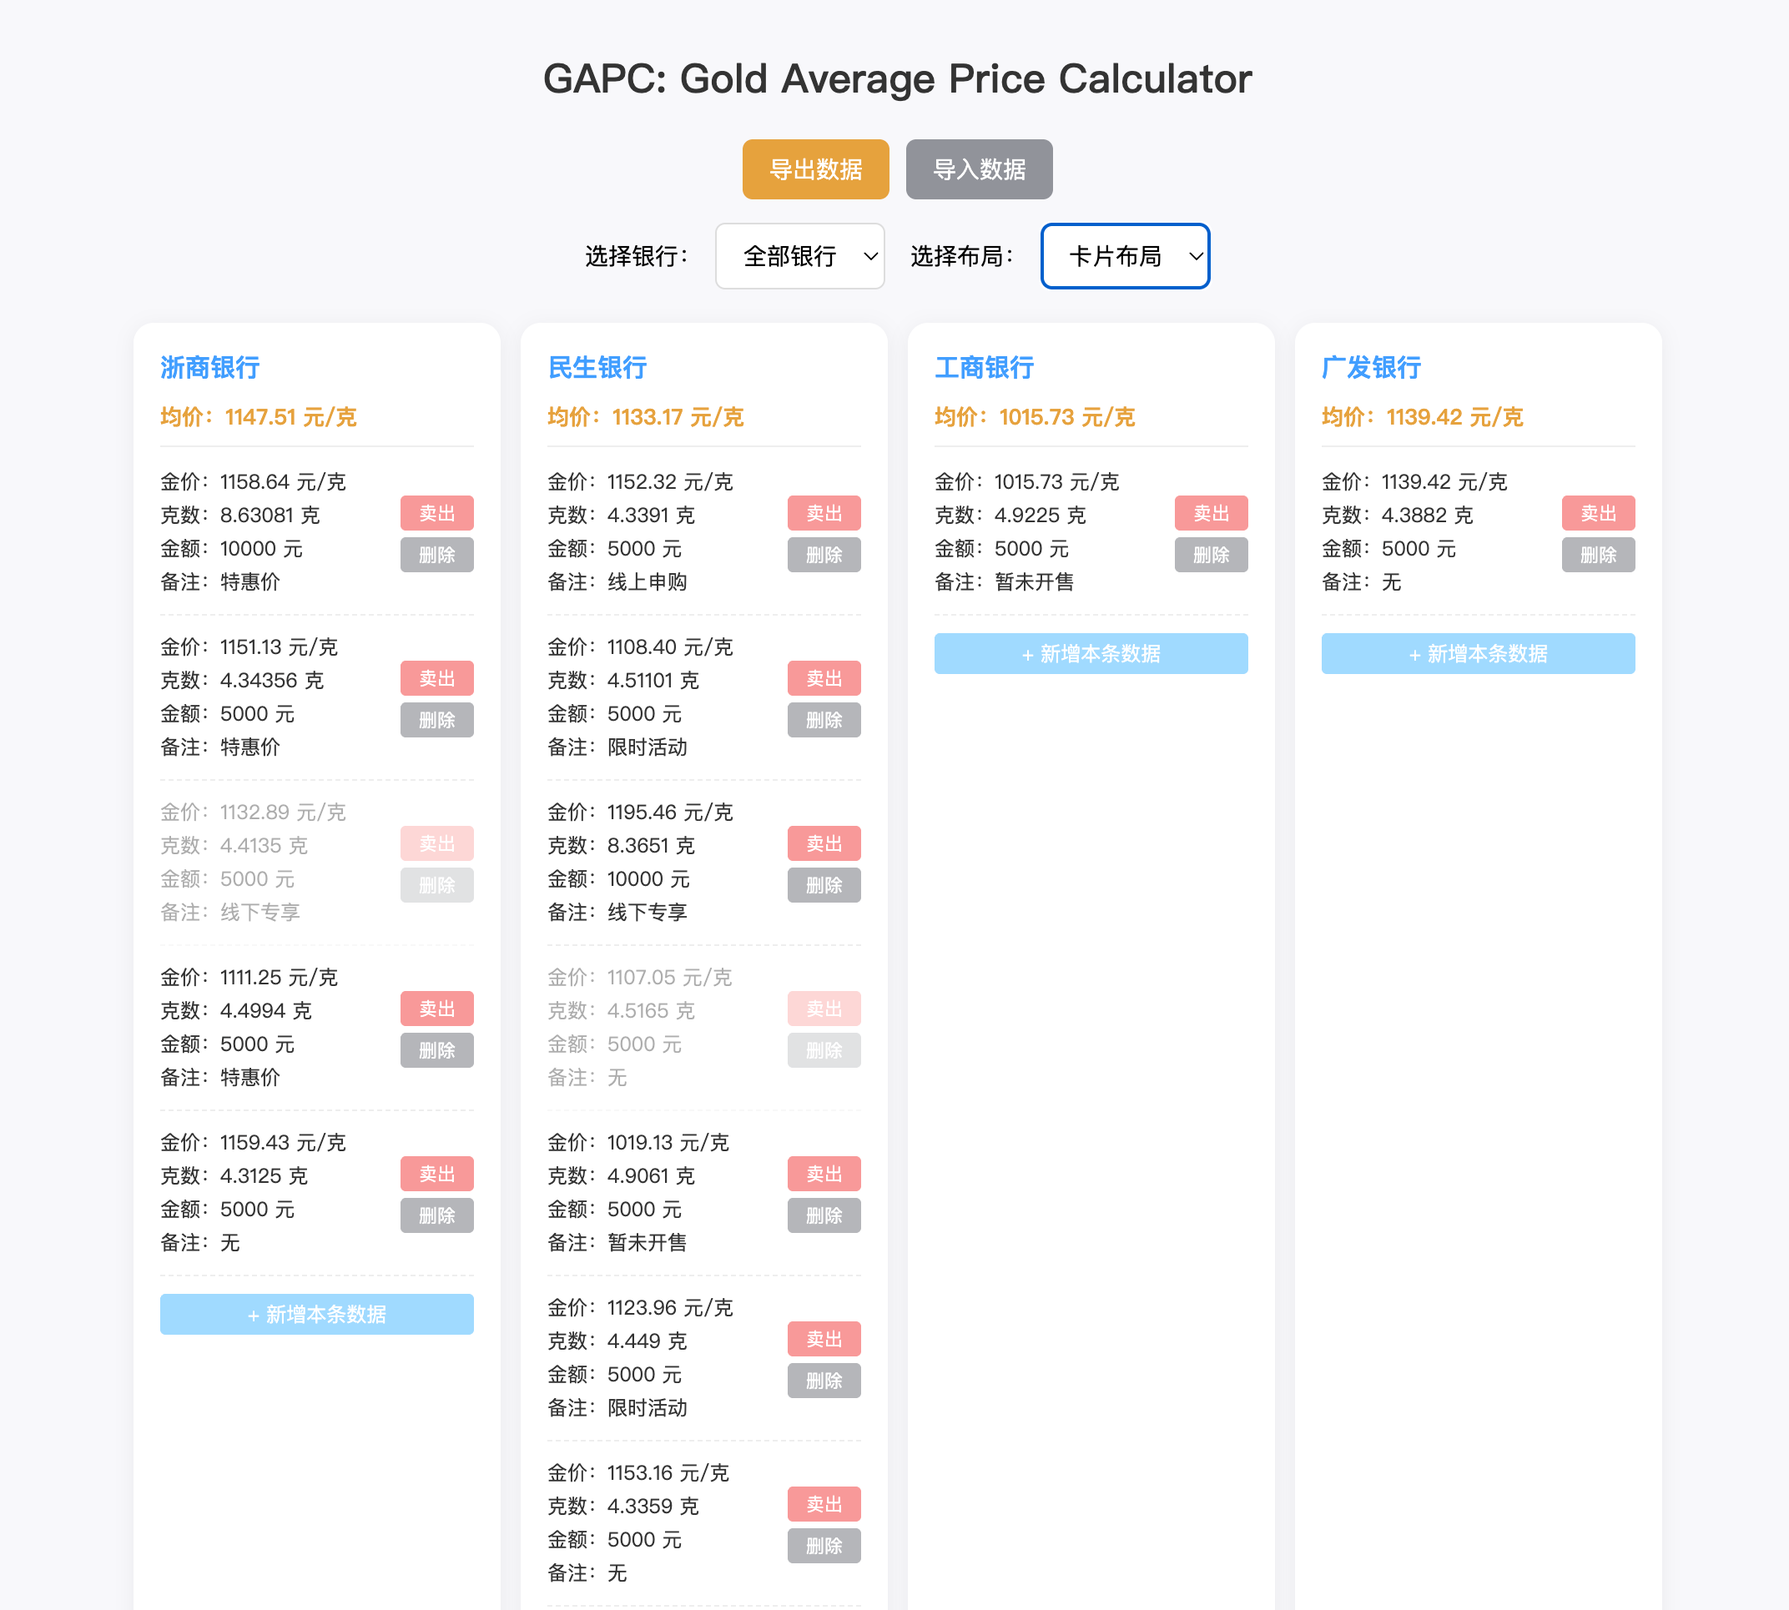
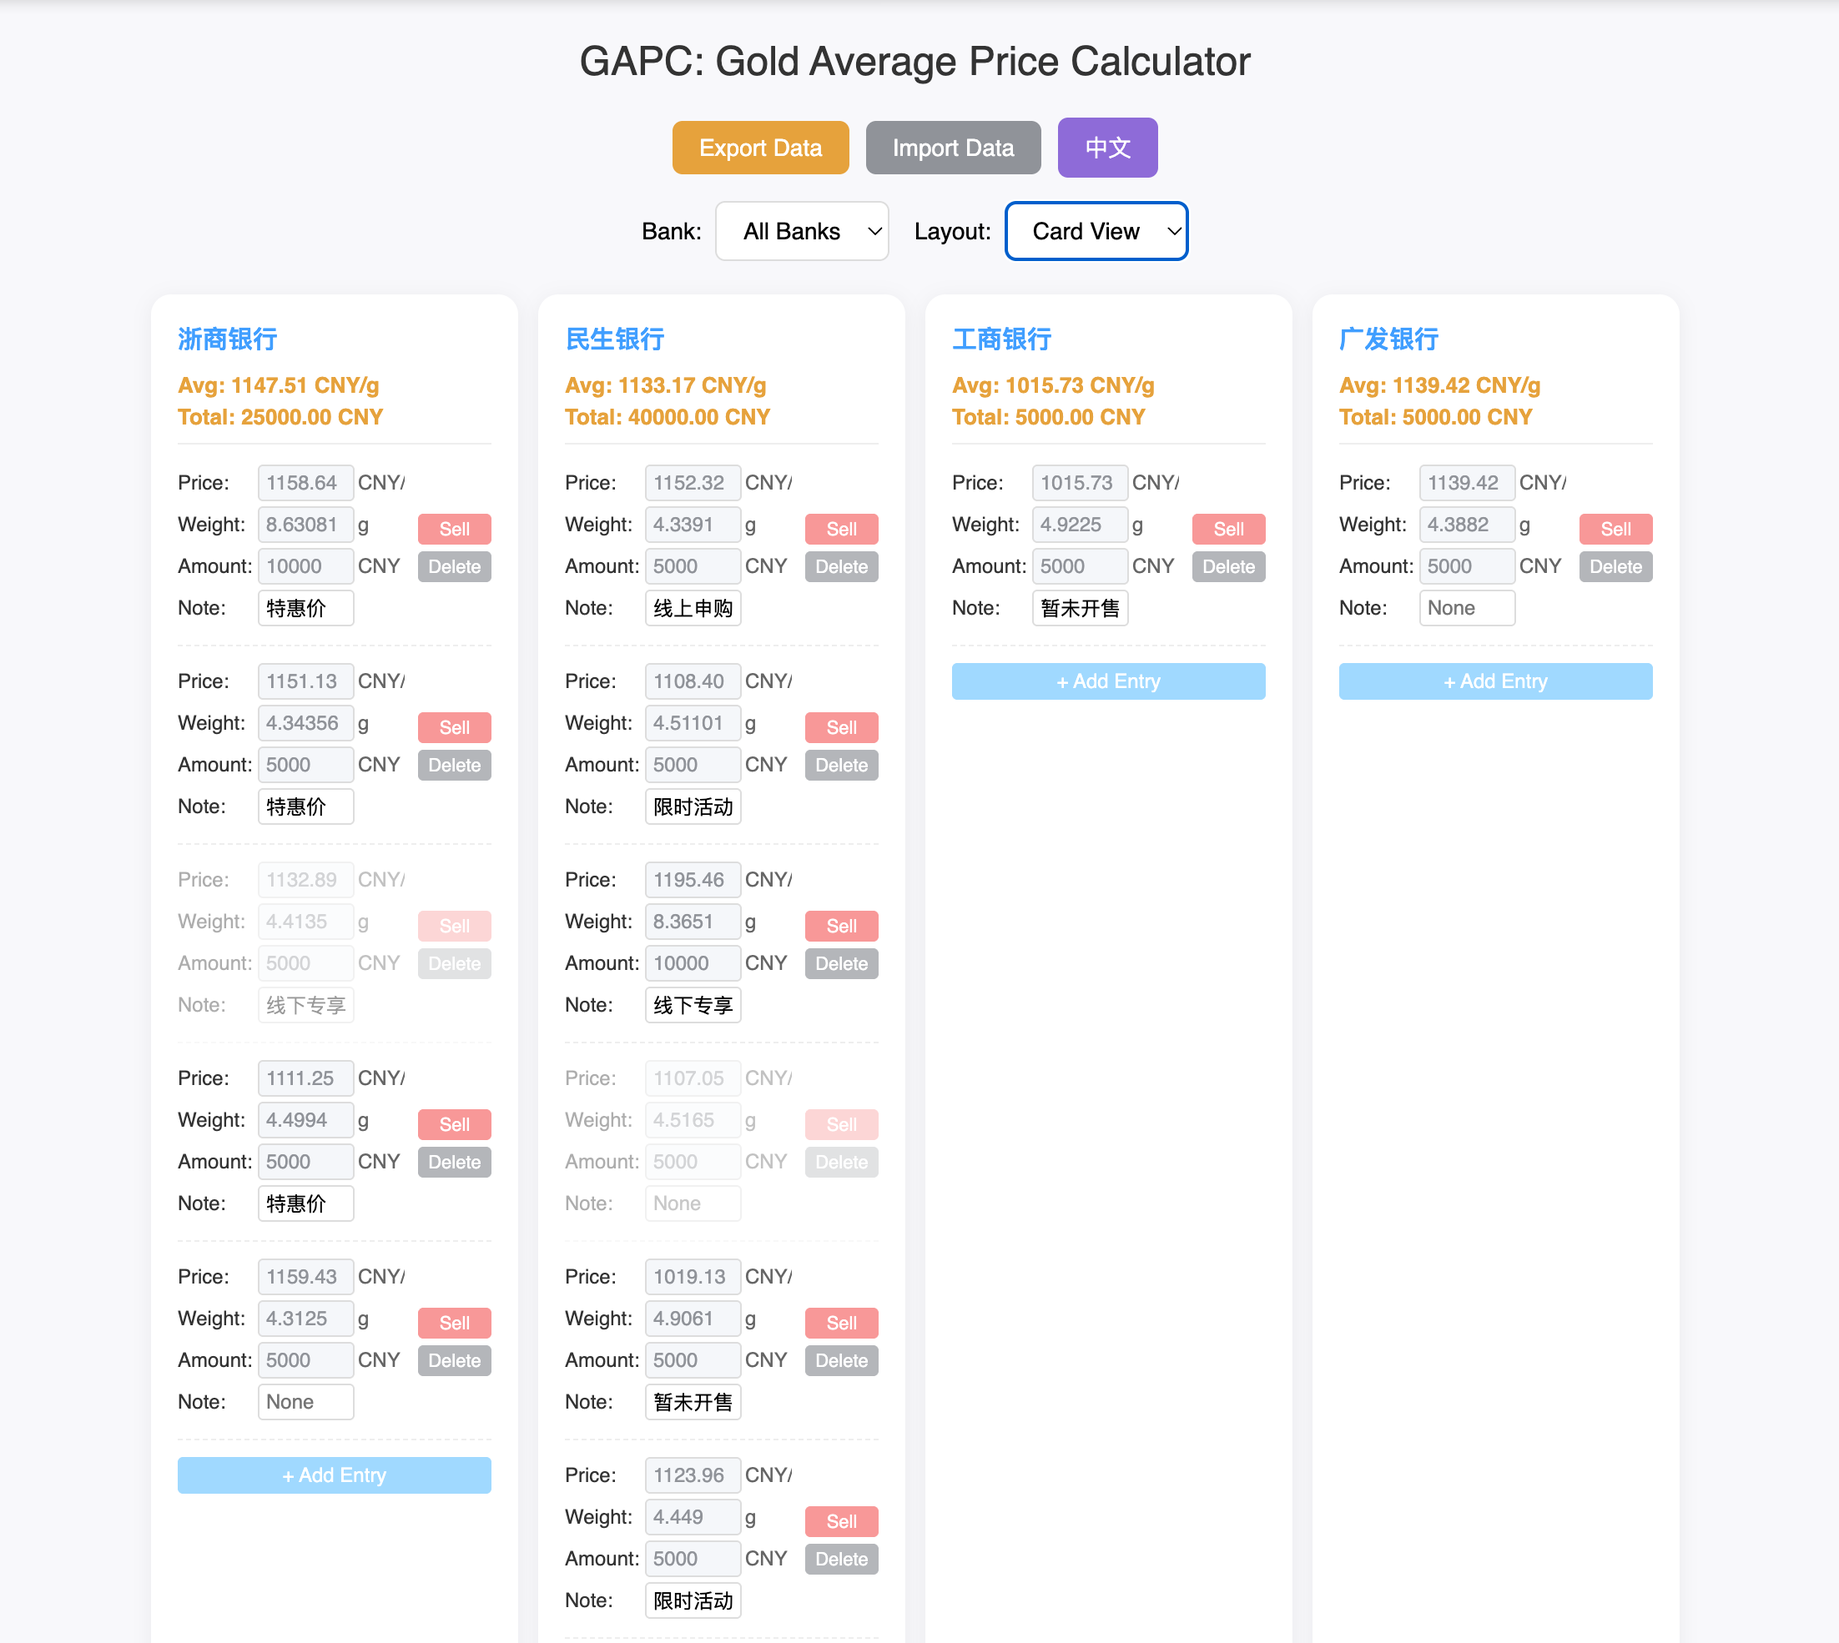
Add 'total' field and support English

diff --git a/goldavg.html b/goldavg.html
@@ -53,6 +53,7 @@
         .btn-calc:disabled { background: #c2e7b0; cursor: not-allowed; }
         .btn-export { background: #e6a23c; color: #fff; }
         .btn-import { background: #909399; color: #fff; }
+        .btn-lang { background: #8e6bd8; color: #fff; }
 
         .filter-row {
             display: flex;
@@ -90,6 +91,7 @@
             box-shadow: 0 1px 4px rgba(0,0,0,0.05);
             font-size: 14px;
         }
+        .avg-item b.total-num { color: #67c23a; }
         .avg-item b {
             color: #e6a23c; font-weight: bold;
         }
@@ -164,6 +166,12 @@
             padding-bottom: 6px;
         }
         .card-avg {
+            font-size: 13px;
+            color: #e6a23c;
+            font-weight: bold;
+            margin-bottom: 4px;
+        }
+        .card-total {
             font-size: 13px;
             color: #e6a23c;
             font-weight: bold;
@@ -284,32 +292,35 @@
         .card-input::-webkit-outer-spin-button,
         .card-input::-webkit-inner-spin-button { -webkit-appearance: none; margin: 0; }
         .card-btns { flex-shrink: 0; justify-content: center; }
+        /* 英文下标签/单位列略宽，输入框依然保持一致 */
+        body.lang-en .card-field { grid-template-columns: 46px minmax(0, 1fr) 28px; }
     </style>
 </head>
 <body>
     <div class="container list-mode" id="mainContainer">
-        <h1 class="title">GAPC: Gold Average Price Calculator</h1>
+        <h1 class="title" data-i18n="title"></h1>
 
         <div class="btn-row">
-            <button class="btn btn-add" id="addRecord">新增数据</button>
-            <button class="btn btn-calc" id="calcBtn">计算均价</button>
-            <button class="btn btn-export" id="exportBtn">导出数据</button>
-            <button class="btn btn-import" id="importBtn">导入数据</button>
+            <button class="btn btn-add" id="addRecord" data-i18n="add"></button>
+            <button class="btn btn-calc" id="calcBtn" data-i18n="calc"></button>
+            <button class="btn btn-export" id="exportBtn" data-i18n="export"></button>
+            <button class="btn btn-import" id="importBtn" data-i18n="import"></button>
+            <button class="btn btn-lang" id="langBtn" data-i18n="langBtn"></button>
             <input type="file" id="fileInput" accept=".json">
         </div>
 
         <div class="filter-row">
             <div class="bank-filter">
-                <label>选择银行：</label>
+                <label data-i18n="bankLabel"></label>
                 <select id="bankSelect">
-                    <option value="all">全部银行</option>
+                    <option value="all"></option>
                 </select>
             </div>
             <div class="layout-filter">
-                <label>选择布局：</label>
+                <label data-i18n="layoutLabel"></label>
                 <select id="layoutSelect">
-                    <option value="list">条目布局</option>
-                    <option value="card">卡片布局</option>
+                    <option value="list" data-i18n="listLayout"></option>
+                    <option value="card" data-i18n="cardLayout"></option>
                 </select>
             </div>
         </div>
@@ -324,6 +335,71 @@
     const pageSize = 10;
     let currentPage = 1;
     let currentMode = 'list';
+
+    /* ---------- 中英文切换 ---------- */
+    const I18N = {
+        zh: {
+            docTitle: 'GAPC：黄金均价计算器', title: 'GAPC：黄金均价计算器',
+            add: '新增数据', calc: '计算均价', export: '导出数据', import: '导入数据', langBtn: 'English',
+            bankLabel: '选择银行：', layoutLabel: '选择布局：',
+            allBanks: '全部银行', listLayout: '条目布局', cardLayout: '卡片布局',
+            phBank: '银行', phPrice: '买入金价', phGram: '克数', phWorth: '总金额', phRemark: '备注',
+            sell: '卖出', del: '删除',
+            lockedTip: '已新增成功，不可修改（如需调整请删除后重新新增）',
+            avg: '均价：', total: '总额：',
+            unitPrice: '元/克', unitGram: '克', unitMoney: '元',
+            lblPrice: '金价：', lblGram: '克数：', lblWorth: '金额：', lblRemark: '备注：', phNone: '无',
+            addToBank: '+ 新增本条数据',
+            fileName: '黄金数据_', importOk: '导入成功', importErr: 'JSON格式错误'
+        },
+        en: {
+            docTitle: 'GAPC: Gold Average Price Calculator', title: 'GAPC: Gold Average Price Calculator',
+            add: 'Add Entry', calc: 'Calculate Avg', export: 'Export Data', import: 'Import Data', langBtn: '中文',
+            bankLabel: 'Bank: ', layoutLabel: 'Layout: ',
+            allBanks: 'All Banks', listLayout: 'List View', cardLayout: 'Card View',
+            phBank: 'Bank', phPrice: 'Buy Price', phGram: 'Grams', phWorth: 'Total Amount', phRemark: 'Remark',
+            sell: 'Sell', del: 'Delete',
+            lockedTip: 'Entry already added and cannot be edited (delete it and add a new one to change)',
+            avg: 'Avg: ', total: 'Total: ',
+            unitPrice: 'CNY/g', unitGram: 'g', unitMoney: 'CNY',
+            lblPrice: 'Price:', lblGram: 'Weight:', lblWorth: 'Amount:', lblRemark: 'Note:', phNone: 'None',
+            addToBank: '+ Add Entry',
+            fileName: 'gold_data_', importOk: 'Import successful', importErr: 'Invalid JSON format'
+        }
+    };
+    let lang = 'zh';
+    try { if (localStorage.getItem('gapc_lang') === 'en') lang = 'en'; } catch (e) {}
+    const t = k => I18N[lang][k];
+
+    function applyLang() {
+        document.documentElement.lang = lang === 'en' ? 'en' : 'zh-CN';
+        document.body.classList.toggle('lang-en', lang === 'en');
+        document.title = t('docTitle');
+        document.querySelectorAll('[data-i18n]').forEach(el => { el.textContent = t(el.dataset.i18n); });
+
+        // 条目里的占位符、按钮、锁定提示
+        document.querySelectorAll('.record-item').forEach(it => {
+            it.querySelector('.bank').placeholder = t('phBank');
+            it.querySelector('.price').placeholder = t('phPrice');
+            it.querySelector('.gram').placeholder = t('phGram');
+            it.querySelector('.worth').placeholder = t('phWorth');
+            it.querySelector('.remark').placeholder = t('phRemark');
+            it.querySelector('.sell-btn').textContent = t('sell');
+            it.querySelector('.del-btn').textContent = t('del');
+            if (it.dataset.locked === '1') {
+                LOCK_FIELDS.forEach(f => { it.querySelector('.' + f).title = t('lockedTip'); });
+            }
+        });
+
+        refreshAll();                       // 重绘下拉框、条目、卡片
+        if (avgBar.style.display === 'flex') refreshAvgDynamic(); // 重绘均价/总额栏
+    }
+
+    function toggleLang() {
+        lang = lang === 'zh' ? 'en' : 'zh';
+        try { localStorage.setItem('gapc_lang', lang); } catch (e) {}
+        applyLang();
+    }
     const calcBtn = document.getElementById('calcBtn');
     const addRecordBtn = document.getElementById('addRecord');
 
@@ -333,7 +409,7 @@
         }
         bindEvents();
         updateBtnVisibility(currentMode);
-        refreshAll();
+        applyLang();
     };
 
     function escapeHtml(s) {
@@ -358,6 +434,7 @@
         document.getElementById('exportBtn').onclick = exportData;
         document.getElementById('importBtn').onclick = () => fileInput.click();
         document.getElementById('fileInput').onchange = importData;
+        document.getElementById('langBtn').onclick = toggleLang;
 
         document.getElementById('bankSelect').onchange = () => {
             currentPage = 1;
@@ -414,7 +491,7 @@
             const inp = div.querySelector('.' + f);
             inp.readOnly = true;
             inp.classList.add('locked-field');
-            inp.title = '已新增成功，不可修改（如需调整请删除后重新新增）';
+            inp.title = t('lockedTip');
         });
     }
 
@@ -436,13 +513,13 @@
 
         div.innerHTML = `
             <div class="record-index">${c.children.length+1}</div>
-            <input type="text" class="bank" placeholder="银行" value="${escapeHtml(data.bank)}" required>
-            <input type="number" class="price" placeholder="买入金价" step="0.01" value="${escapeHtml(data.price)}">
-            <input type="number" class="gram" placeholder="克数" step="0.01" value="${escapeHtml(data.gram)}" required>
-            <input type="number" class="worth" placeholder="总金额" step="0.01" value="${escapeHtml(data.worth)}" required>
-            <input type="text" class="remark" placeholder="备注" value="${escapeHtml(data.remark)}">
-            <button class="action-btn sell-btn">卖出</button>
-            <button class="action-btn del-btn">删除</button>
+            <input type="text" class="bank" placeholder="${t('phBank')}" value="${escapeHtml(data.bank)}" required>
+            <input type="number" class="price" placeholder="${t('phPrice')}" step="0.01" value="${escapeHtml(data.price)}">
+            <input type="number" class="gram" placeholder="${t('phGram')}" step="0.01" value="${escapeHtml(data.gram)}" required>
+            <input type="number" class="worth" placeholder="${t('phWorth')}" step="0.01" value="${escapeHtml(data.worth)}" required>
+            <input type="text" class="remark" placeholder="${t('phRemark')}" value="${escapeHtml(data.remark)}">
+            <button class="action-btn sell-btn">${t('sell')}</button>
+            <button class="action-btn del-btn">${t('del')}</button>
         `;
 
         c.appendChild(div);
@@ -504,7 +581,7 @@
         banks.forEach(b=>{
             const opt = document.createElement('option');
             opt.value = b;
-            opt.textContent = b==='all'?'全部银行':b;
+            opt.textContent = b==='all'?t('allBanks'):b;
             bankSelect.appendChild(opt);
         });
         bankSelect.value = banks.has(old) ? old : 'all';
@@ -551,10 +628,11 @@
             const card = document.createElement('div');
             card.className = 'bank-card';
             card.dataset.bank = bank;
-            const { avg } = getBankAvg(bank);
+            const { avg, v: totalAmt } = getBankAvg(bank);
             let html = `
                 <div class="card-title">${escapeHtml(bank)}</div>
-                <div class="card-avg">均价：${avg} 元/克</div>
+                <div class="card-avg">${t('avg')}${avg} ${t('unitPrice')}</div>
+                <div class="card-total">${t('total')}${totalAmt.toFixed(2)} ${t('unitMoney')}</div>
             `;
             list.forEach(({ item, index }) => {
                 const sold = item.classList.contains('sold');
@@ -567,21 +645,21 @@
                 html += `
                 <div class="card-item ${sold?'sold':''}" data-idx="${index}">
                     <div class="card-info">
-                        <label class="card-field"><span class="lbl">金价：</span><input type="number" step="0.01" class="card-input${lockedCls}" data-field="price" value="${v('price')}" ${lockedAttr}><span class="unit">元/克</span></label>
-                        <label class="card-field"><span class="lbl">克数：</span><input type="number" step="0.01" class="card-input${lockedCls}" data-field="gram" value="${v('gram')}" ${lockedAttr}><span class="unit">克</span></label>
-                        <label class="card-field"><span class="lbl">金额：</span><input type="number" step="0.01" class="card-input${lockedCls}" data-field="worth" value="${v('worth')}" ${lockedAttr}><span class="unit">元</span></label>
-                        <label class="card-field"><span class="lbl">备注：</span><input type="text" class="card-input" data-field="remark" placeholder="无" value="${v('remark')}"><span class="unit"></span></label>
+                        <label class="card-field"><span class="lbl">${t('lblPrice')}</span><input type="number" step="0.01" class="card-input${lockedCls}" data-field="price" value="${v('price')}" ${lockedAttr}><span class="unit">${t('unitPrice')}</span></label>
+                        <label class="card-field"><span class="lbl">${t('lblGram')}</span><input type="number" step="0.01" class="card-input${lockedCls}" data-field="gram" value="${v('gram')}" ${lockedAttr}><span class="unit">${t('unitGram')}</span></label>
+                        <label class="card-field"><span class="lbl">${t('lblWorth')}</span><input type="number" step="0.01" class="card-input${lockedCls}" data-field="worth" value="${v('worth')}" ${lockedAttr}><span class="unit">${t('unitMoney')}</span></label>
+                        <label class="card-field"><span class="lbl">${t('lblRemark')}</span><input type="text" class="card-input" data-field="remark" placeholder="${t('phNone')}" value="${v('remark')}"><span class="unit"></span></label>
                     </div>
                     <div class="card-btns">
-                        <button class="card-btn card-sell">卖出</button>
-                        <button class="card-btn card-del">删除</button>
+                        <button class="card-btn card-sell">${t('sell')}</button>
+                        <button class="card-btn card-del">${t('del')}</button>
                     </div>
                 </div>`;
             });
 
             html += `
             <div class="card-add-row">
-                <button class="card-add-btn" data-bank="${escapeHtml(bank)}">+ 新增一条数据</button>
+                <button class="card-add-btn" data-bank="${escapeHtml(bank)}">${t('addToBank')}</button>
             </div>`;
 
             card.innerHTML = html;
@@ -605,8 +683,9 @@
                     if (!rec) return;
                     rec.querySelector('.' + inp.dataset.field).value = inp.value;
                     const card = cardItem.closest('.bank-card');
-                    const avgEl = card.querySelector('.card-avg');
-                    avgEl.textContent = `均价：${getBankAvg(card.dataset.bank).avg} 元/克`;
+                    const stat = getBankAvg(card.dataset.bank);
+                    card.querySelector('.card-avg').textContent = `${t('avg')}${stat.avg} ${t('unitPrice')}`;
+                    card.querySelector('.card-total').textContent = `${t('total')}${stat.v.toFixed(2)} ${t('unitMoney')}`;
                 };
                 // 输入完成后判断是否新增成功，成功则锁定（原地更新，不重绘，避免吞掉按钮点击）
                 inp.onchange = () => {
@@ -687,15 +766,15 @@
             const b = it.querySelector('.bank').value.trim();
             if(b) banks.add(b);
         });
+        const itemHtml = b => {
+            const { avg, v } = getBankAvg(b);
+            return `<div class="avg-item">${escapeHtml(b)}${lang === 'en' ? ': ' : '：'}${t('avg')}<b>${avg}</b> ${t('unitPrice')}${lang === 'en' ? '&nbsp;&nbsp;' : '　'}${t('total')}<b class="total-num">${v.toFixed(2)}</b> ${t('unitMoney')}</div>`;
+        };
         let bar = '';
         if(filterBank !== 'all') {
-            const { avg } = getBankAvg(filterBank);
-            bar = `<div class="avg-item">${escapeHtml(filterBank)}：<b>${avg}</b></div>`;
+            bar = itemHtml(filterBank);
         } else {
-            banks.forEach(b=>{
-                const { avg } = getBankAvg(b);
-                bar += `<div class="avg-item">${escapeHtml(b)}：<b>${avg}</b></div>`;
-            });
+            banks.forEach(b=>{ bar += itemHtml(b); });
         }
         avgBar.innerHTML = bar;
         avgBar.style.display = 'flex';
@@ -713,7 +792,7 @@
         const blob = new Blob([JSON.stringify(data,null,2)],{type:'application/json'});
         const a = document.createElement('a');
         a.href = URL.createObjectURL(blob);
-        a.download = '黄金数据_'+new Date().toLocaleDateString()+'.json';
+        a.download = t('fileName')+new Date().toLocaleDateString()+'.json';
         a.click();
     }
 
@@ -728,8 +807,8 @@
                 d.forEach(item=>addRecord(item));
                 currentPage = 1;
                 refreshAll();
-                alert('导入成功');
-            }catch(e){alert('JSON格式错误')}
+                alert(t('importOk'));
+            }catch(e){alert(t('importErr'))}
         };
         r.readAsText(f);
         e.target.value = '';
